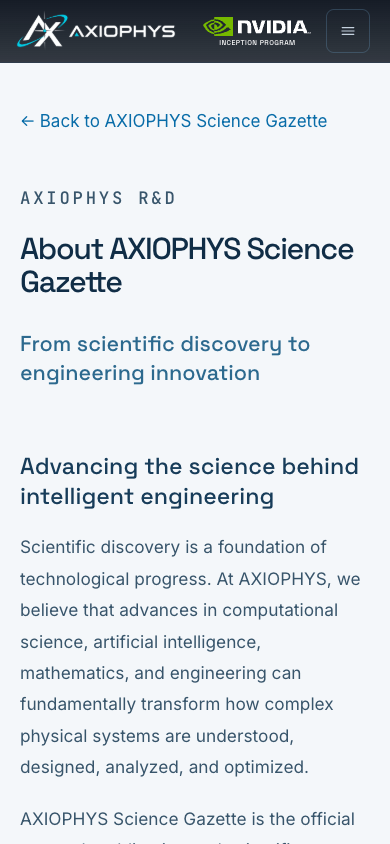
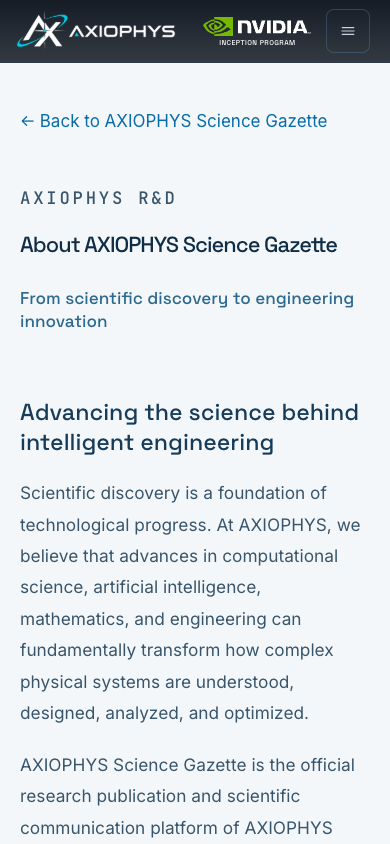
Keep Gazette about heading on one line

Changed region(s): [[0.0308, 0.2773, 0.9231, 1.0], [0.8615, 0.6777, 0.9231, 0.7085]]

diff --git a/research.html b/research.html
@@ -1,4 +1,4 @@
-<!doctype html><html lang="en"><head><meta charset="utf-8"><meta name="viewport" content="width=device-width,initial-scale=1"><link rel="icon" type="image/png" sizes="16x16" href="assets/axiophys-icon-16.png?v=1"><link rel="icon" type="image/png" sizes="32x32" href="assets/axiophys-icon-32.png?v=1"><link rel="icon" type="image/png" sizes="48x48" href="assets/axiophys-icon-48.png?v=1"><link rel="icon" type="image/png" sizes="192x192" href="assets/axiophys-icon-192.png?v=1"><link rel="apple-touch-icon" sizes="180x180" href="assets/axiophys-icon-180.png?v=1"><script>if ('scrollRestoration' in history) history.scrollRestoration='manual';addEventListener('pageshow',function(){if(!location.hash)scrollTo({top:0,left:0,behavior:'instant'})});</script><title>AXIOPHYS Science Gazette | Research &amp; Scientific Publications</title><meta name="description" content="Explore AXIOPHYS Science Gazette, the scientific communication platform of AXIOPHYS R&amp;D, featuring computational science, engineering demonstrations, research papers and PRIME-CAE manuals."><link rel="canonical" href="https://axiophys.com/research.html"><meta name="theme-color" content="#030a14"><meta property="og:title" content="AXIOPHYS Science Gazette | Research &amp; Scientific Publications"><meta property="og:description" content="Explore AXIOPHYS Science Gazette, the scientific communication platform of AXIOPHYS R&amp;D, featuring computational science, engineering demonstrations, research papers and PRIME-CAE manuals."><meta property="og:url" content="https://axiophys.com/research.html"><meta property="og:type" content="website"><meta property="og:image" content="https://axiophys.com/media/gazette/science-gazette-poster.jpg"><link href="https://fonts.googleapis.com/css2?family=Space+Grotesk:wght@400;500;600&family=Inter:wght@400;500;600&family=JetBrains+Mono:wght@400;500&display=swap" rel="stylesheet"><link rel="stylesheet" href="css/tokens.css"><link rel="stylesheet" href="css/base.css"><link rel="stylesheet" href="css/layout.css"><link rel="stylesheet" href="css/components.css"><link rel="stylesheet" href="css/hero.css?v=menu-full-width-1"><link rel="stylesheet" href="css/sections.css"><link rel="stylesheet" href="css/mobile.css?v=mobile-menu-right-1"><link rel="stylesheet" href="css/axiophys.css?v=hero-rail-1"><link rel="stylesheet" href="css/news.css?v=header-match-1"><link rel="stylesheet" href="css/research.css?v=14"></head><body class="gazette-page"><svg xmlns="http://www.w3.org/2000/svg" width="0" height="0" aria-hidden="true" style="position:absolute;pointer-events:none"><defs><filter id="axiophys-on-dark" color-interpolation-filters="sRGB"><feColorMatrix type="matrix" values="1 -1.3944 0 0 1.1155  0 -0.26667 0 0 1.0251  0 -0.13333 0 0 1.01255  0 0 0 1 0"/></filter></defs></svg><header class="nav" id="nav" data-env="navy">
+<!doctype html><html lang="en"><head><meta charset="utf-8"><meta name="viewport" content="width=device-width,initial-scale=1"><link rel="icon" type="image/png" sizes="16x16" href="assets/axiophys-icon-16.png?v=1"><link rel="icon" type="image/png" sizes="32x32" href="assets/axiophys-icon-32.png?v=1"><link rel="icon" type="image/png" sizes="48x48" href="assets/axiophys-icon-48.png?v=1"><link rel="icon" type="image/png" sizes="192x192" href="assets/axiophys-icon-192.png?v=1"><link rel="apple-touch-icon" sizes="180x180" href="assets/axiophys-icon-180.png?v=1"><script>if ('scrollRestoration' in history) history.scrollRestoration='manual';addEventListener('pageshow',function(){if(!location.hash)scrollTo({top:0,left:0,behavior:'instant'})});</script><title>AXIOPHYS Science Gazette | Research &amp; Scientific Publications</title><meta name="description" content="Explore AXIOPHYS Science Gazette, the scientific communication platform of AXIOPHYS R&amp;D, featuring computational science, engineering demonstrations, research papers and PRIME-CAE manuals."><link rel="canonical" href="https://axiophys.com/research.html"><meta name="theme-color" content="#030a14"><meta property="og:title" content="AXIOPHYS Science Gazette | Research &amp; Scientific Publications"><meta property="og:description" content="Explore AXIOPHYS Science Gazette, the scientific communication platform of AXIOPHYS R&amp;D, featuring computational science, engineering demonstrations, research papers and PRIME-CAE manuals."><meta property="og:url" content="https://axiophys.com/research.html"><meta property="og:type" content="website"><meta property="og:image" content="https://axiophys.com/media/gazette/science-gazette-poster.jpg"><link href="https://fonts.googleapis.com/css2?family=Space+Grotesk:wght@400;500;600&family=Inter:wght@400;500;600&family=JetBrains+Mono:wght@400;500&display=swap" rel="stylesheet"><link rel="stylesheet" href="css/tokens.css"><link rel="stylesheet" href="css/base.css"><link rel="stylesheet" href="css/layout.css"><link rel="stylesheet" href="css/components.css"><link rel="stylesheet" href="css/hero.css?v=menu-full-width-1"><link rel="stylesheet" href="css/sections.css"><link rel="stylesheet" href="css/mobile.css?v=mobile-menu-right-1"><link rel="stylesheet" href="css/axiophys.css?v=hero-rail-1"><link rel="stylesheet" href="css/news.css?v=header-match-1"><link rel="stylesheet" href="css/research.css?v=16"></head><body class="gazette-page"><svg xmlns="http://www.w3.org/2000/svg" width="0" height="0" aria-hidden="true" style="position:absolute;pointer-events:none"><defs><filter id="axiophys-on-dark" color-interpolation-filters="sRGB"><feColorMatrix type="matrix" values="1 -1.3944 0 0 1.1155  0 -0.26667 0 0 1.0251  0 -0.13333 0 0 1.01255  0 0 0 1 0"/></filter></defs></svg><header class="nav" id="nav" data-env="navy">
   <div class="progress" aria-hidden="true"><i id="progressBar"></i></div>
   <div class="shell nav__in">
     <a class="nav__brand" href="https://axiophys.com/" aria-label="AXIOPHYS home">

diff --git a/about-science-gazette.html b/about-science-gazette.html
@@ -1,4 +1,4 @@
-<!doctype html><html lang="en"><head><meta charset="utf-8"><meta name="viewport" content="width=device-width,initial-scale=1"><link rel="icon" type="image/png" sizes="16x16" href="assets/axiophys-icon-16.png?v=1"><link rel="icon" type="image/png" sizes="32x32" href="assets/axiophys-icon-32.png?v=1"><link rel="icon" type="image/png" sizes="48x48" href="assets/axiophys-icon-48.png?v=1"><link rel="icon" type="image/png" sizes="192x192" href="assets/axiophys-icon-192.png?v=1"><link rel="apple-touch-icon" sizes="180x180" href="assets/axiophys-icon-180.png?v=1"><title>About AXIOPHYS Science Gazette | AXIOPHYS R&amp;D</title><meta name="description" content="The research philosophy behind AXIOPHYS Science Gazette and its connection between scientific discovery and engineering innovation."><link rel="canonical" href="https://axiophys.com/about-science-gazette.html"><meta name="theme-color" content="#030a14"><meta property="og:title" content="About AXIOPHYS Science Gazette | AXIOPHYS R&amp;D"><meta property="og:description" content="The research philosophy behind AXIOPHYS Science Gazette and its connection between scientific discovery and engineering innovation."><meta property="og:url" content="https://axiophys.com/about-science-gazette.html"><meta property="og:type" content="website"><meta property="og:image" content="https://axiophys.com/media/gazette/science-gazette-poster.jpg"><link href="https://fonts.googleapis.com/css2?family=Space+Grotesk:wght@400;500;600&family=Inter:wght@400;500;600&family=JetBrains+Mono:wght@400;500&display=swap" rel="stylesheet"><link rel="stylesheet" href="css/tokens.css"><link rel="stylesheet" href="css/base.css"><link rel="stylesheet" href="css/layout.css"><link rel="stylesheet" href="css/components.css"><link rel="stylesheet" href="css/hero.css?v=menu-full-width-1"><link rel="stylesheet" href="css/sections.css"><link rel="stylesheet" href="css/mobile.css?v=mobile-menu-right-1"><link rel="stylesheet" href="css/axiophys.css?v=hero-rail-1"><link rel="stylesheet" href="css/research.css?v=14"></head><body class="gazette-page"><svg xmlns="http://www.w3.org/2000/svg" width="0" height="0" aria-hidden="true" style="position:absolute;pointer-events:none"><defs><filter id="axiophys-on-dark" color-interpolation-filters="sRGB"><feColorMatrix type="matrix" values="1 -1.3944 0 0 1.1155  0 -0.26667 0 0 1.0251  0 -0.13333 0 0 1.01255  0 0 0 1 0"/></filter></defs></svg><header class="nav" id="nav" data-env="navy">
+<!doctype html><html lang="en"><head><meta charset="utf-8"><meta name="viewport" content="width=device-width,initial-scale=1"><link rel="icon" type="image/png" sizes="16x16" href="assets/axiophys-icon-16.png?v=1"><link rel="icon" type="image/png" sizes="32x32" href="assets/axiophys-icon-32.png?v=1"><link rel="icon" type="image/png" sizes="48x48" href="assets/axiophys-icon-48.png?v=1"><link rel="icon" type="image/png" sizes="192x192" href="assets/axiophys-icon-192.png?v=1"><link rel="apple-touch-icon" sizes="180x180" href="assets/axiophys-icon-180.png?v=1"><title>About AXIOPHYS Science Gazette | AXIOPHYS R&amp;D</title><meta name="description" content="The research philosophy behind AXIOPHYS Science Gazette and its connection between scientific discovery and engineering innovation."><link rel="canonical" href="https://axiophys.com/about-science-gazette.html"><meta name="theme-color" content="#030a14"><meta property="og:title" content="About AXIOPHYS Science Gazette | AXIOPHYS R&amp;D"><meta property="og:description" content="The research philosophy behind AXIOPHYS Science Gazette and its connection between scientific discovery and engineering innovation."><meta property="og:url" content="https://axiophys.com/about-science-gazette.html"><meta property="og:type" content="website"><meta property="og:image" content="https://axiophys.com/media/gazette/science-gazette-poster.jpg"><link href="https://fonts.googleapis.com/css2?family=Space+Grotesk:wght@400;500;600&family=Inter:wght@400;500;600&family=JetBrains+Mono:wght@400;500&display=swap" rel="stylesheet"><link rel="stylesheet" href="css/tokens.css"><link rel="stylesheet" href="css/base.css"><link rel="stylesheet" href="css/layout.css"><link rel="stylesheet" href="css/components.css"><link rel="stylesheet" href="css/hero.css?v=menu-full-width-1"><link rel="stylesheet" href="css/sections.css"><link rel="stylesheet" href="css/mobile.css?v=mobile-menu-right-1"><link rel="stylesheet" href="css/axiophys.css?v=hero-rail-1"><link rel="stylesheet" href="css/research.css?v=16"></head><body class="gazette-page"><svg xmlns="http://www.w3.org/2000/svg" width="0" height="0" aria-hidden="true" style="position:absolute;pointer-events:none"><defs><filter id="axiophys-on-dark" color-interpolation-filters="sRGB"><feColorMatrix type="matrix" values="1 -1.3944 0 0 1.1155  0 -0.26667 0 0 1.0251  0 -0.13333 0 0 1.01255  0 0 0 1 0"/></filter></defs></svg><header class="nav" id="nav" data-env="navy">
   <div class="progress" aria-hidden="true"><i id="progressBar"></i></div>
   <div class="shell nav__in">
     <a class="nav__brand" href="#top" aria-label="AXIOPHYS home">

diff --git a/css/research.css b/css/research.css
@@ -19,7 +19,7 @@
 .gazette-categories--floating a[aria-current="true"]{color:#086ca8}
 .gazette-intro{padding-block:clamp(64px,8vw,120px);scroll-margin-top:calc(var(--gazette-nav-h,var(--nav-h)) + 70px);border-bottom:1px solid #cad9e3}
 .gazette-intro>*{max-width:78ch}.gazette-eyebrow{font:500 .78rem/1.5 var(--font-mono);letter-spacing:.16em;text-transform:uppercase;color:#0875a9;margin-bottom:18px}
-.gazette-intro h1,.gazette-article h1{font:500 clamp(1.9rem,3.5vw,3.4rem)/1.08 var(--font-sans);letter-spacing:-.045em;color:#102d46;margin:0 0 14px;max-width:18ch}
+.gazette-intro h1,.gazette-article h1{font:500 clamp(1.1rem,5.6vw,3.1rem)/1.08 var(--font-sans);letter-spacing:-.045em;color:#102d46;margin:0 0 14px;max-width:none;white-space:nowrap}
 .gazette-intro h2{font:500 clamp(1.3rem,2vw,1.85rem)/1.3 var(--font-sans);color:#46708d;margin-bottom:32px}
 .gazette-intro p:not(.gazette-eyebrow){font-size:clamp(1rem,1.35vw,1.14rem);line-height:1.8;color:#36546b;margin:0 0 20px}
 .gazette-link{display:inline-flex;align-items:center;gap:10px;color:#075e96;font:600 1rem/1.5 var(--font-sans);padding:12px 0;border-bottom:1px solid currentColor;margin-top:16px}
@@ -38,3 +38,4 @@
 @media(max-width:700px){.gazette-hero__play{top:auto;bottom:8px;right:8px;font-size:.75rem;background:rgba(3,10,20,.08)}.gazette-categories{top:calc(var(--gazette-nav-h,var(--nav-h)) + 6px);left:var(--gutter);flex-direction:row;align-items:center;gap:clamp(8px,2.5vw,14px);max-width:calc(100vw - var(--gutter) - var(--gutter));overflow-x:auto;scrollbar-width:none}.gazette-categories a{min-height:44px;font-size:.9rem}.gazette-categories--floating{top:calc(var(--gazette-nav-h,var(--nav-h)) + 8px);padding:5px 10px;scrollbar-width:thin}.gazette-categories--floating a{font-size:.875rem}.gazette-intro{padding-block:54px}.gazette-browser{padding-bottom:60px}.gazette-article{padding-top:calc(var(--gazette-nav-h,var(--nav-h)) + 38px)}.gazette-article .gazette-back{margin-bottom:38px}}
 @media(max-width:360px){.gazette-categories{left:14px;gap:6px;max-width:calc(100vw - 28px)}.gazette-categories a{font-size:.82rem}.gazette-categories--floating{left:14px}.gazette-categories--floating a{font-size:.82rem}}
 @media(prefers-reduced-motion:reduce){.gazette-hero video{animation:none}}
+@media(max-width:420px){.gazette-intro h2,.gazette-article h2{font-size:clamp(1rem,4.4vw,1.2rem)}}
